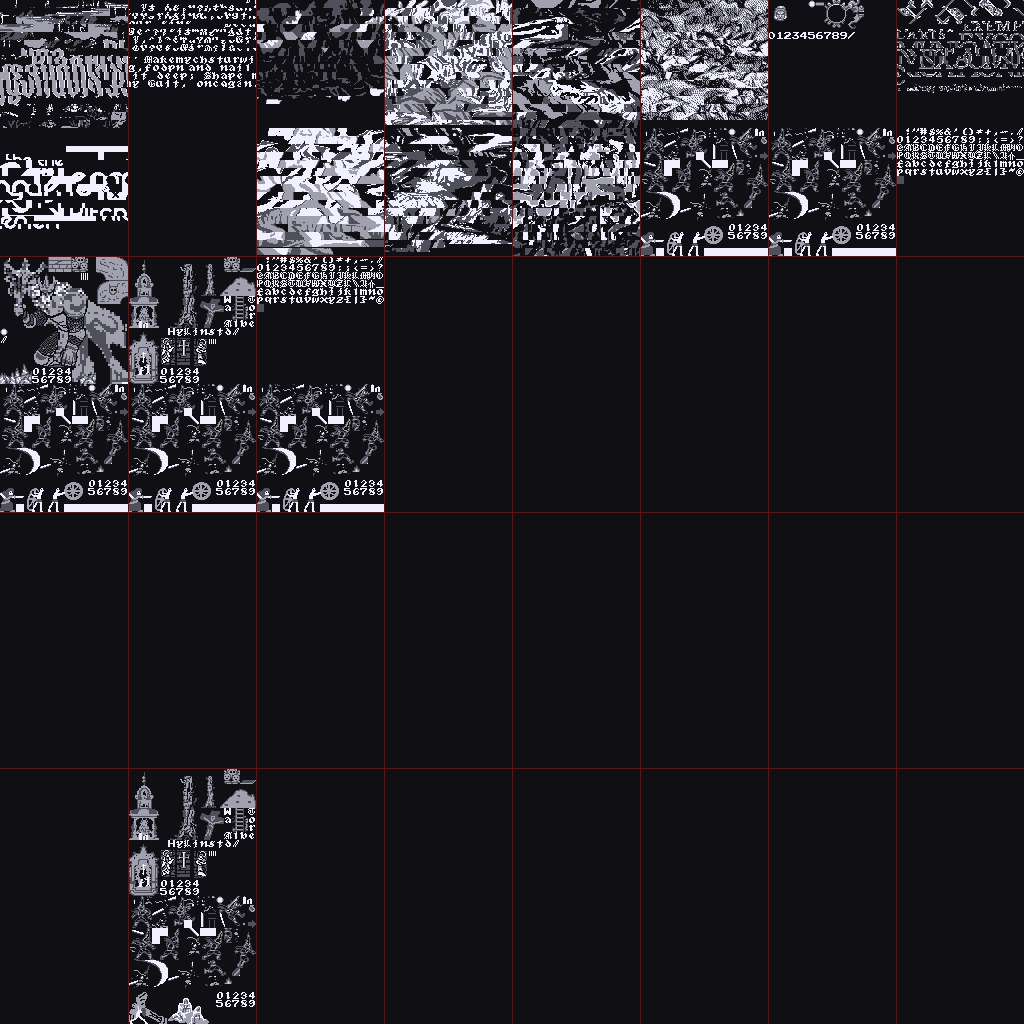
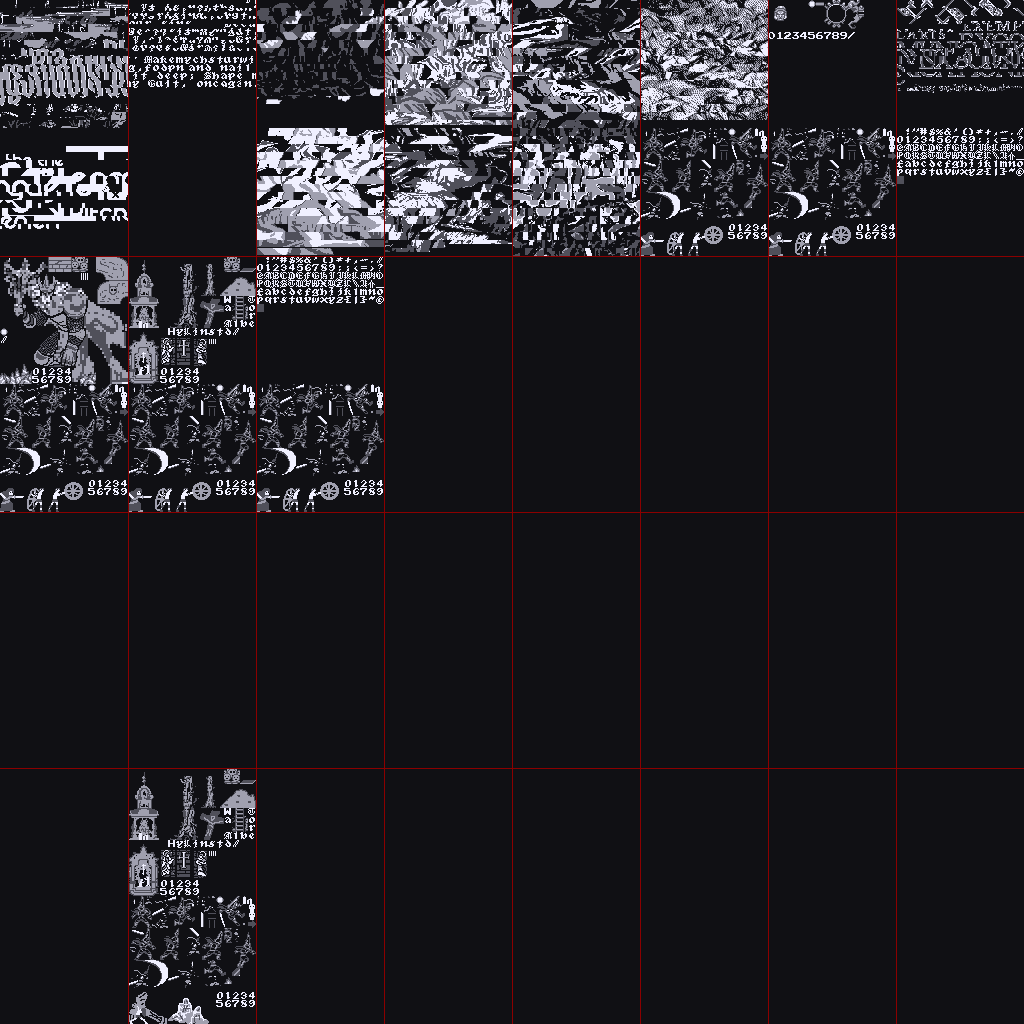
Improve some tiles

diff --git a/examples/Blasphemos/CHANGELOG.md b/examples/Blasphemos/CHANGELOG.md
@@ -1,5 +1,41 @@
 # Changes
 
+## [26.05.2026] - v880
+- Improve intro a bit
+
+
+## [26.05.2026] - v880
+- Improve intro a bit
+
+
+## [26.05.2026] - v880
+- Improve intro a bit
+
+
+## [26.05.2026] - v880
+- Improve intro a bit
+
+
+## [26.05.2026] - v880
+- Improve intro a bit
+
+
+## [26.05.2026] - v880
+- Improve intro a bit
+
+
+## [26.05.2026] - v880
+- Improve intro a bit
+
+
+## [26.05.2026] - v880
+- Improve intro a bit
+
+
+## [26.05.2026] - v880
+- Improve intro a bit
+
+
 ## [26.05.2026] - v879
 - Update title screen
 
